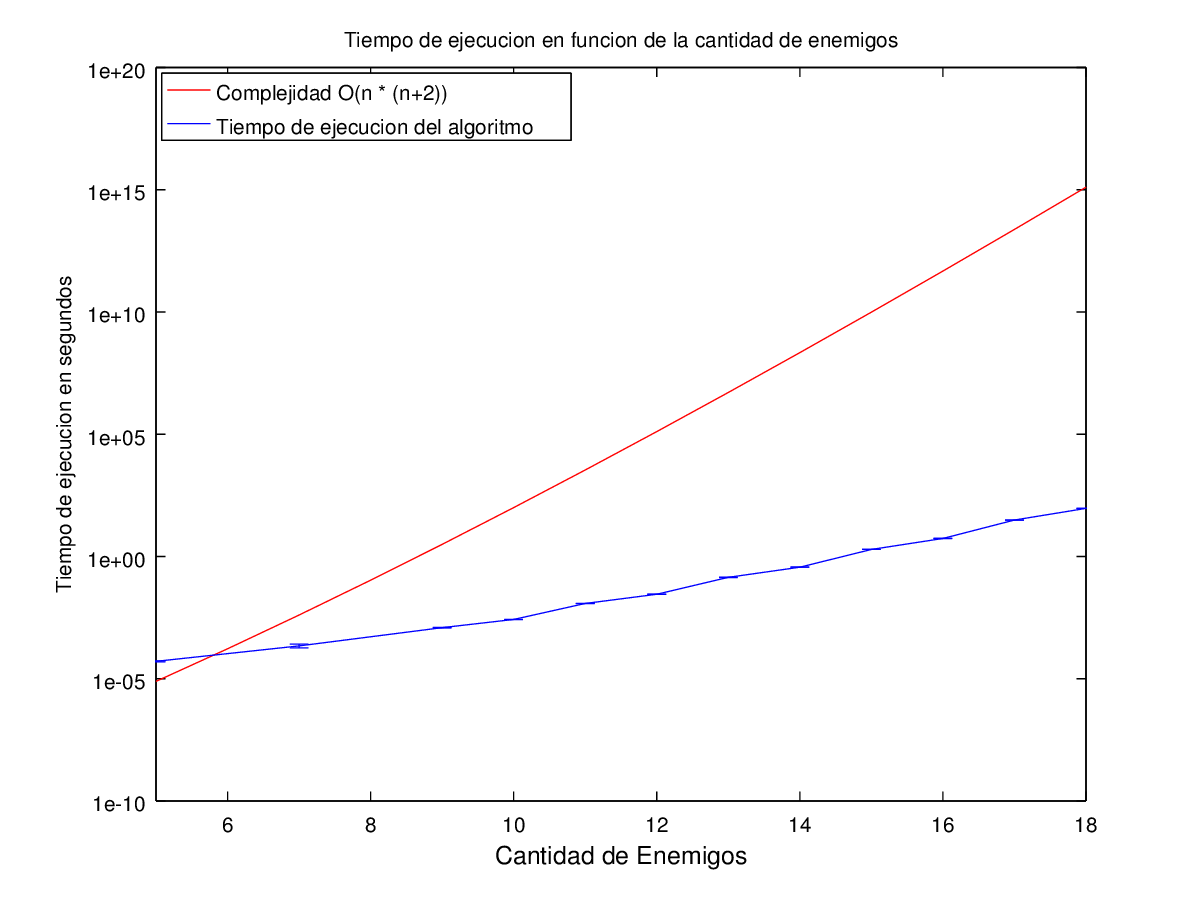
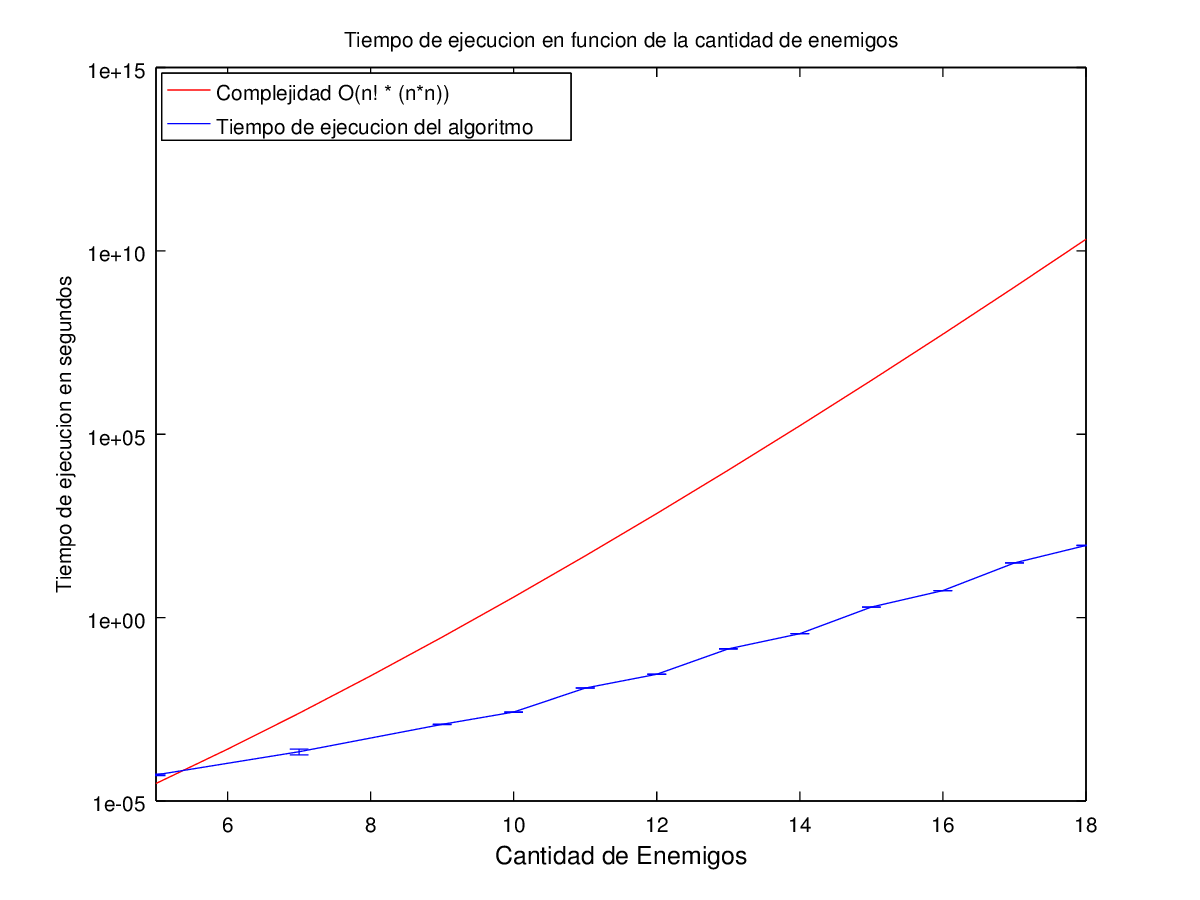
cambio grafico exp1 kamehameha con nueva complejidad

diff --git a/src/exp/kamehameha/exp1/exp1.m b/src/exp/kamehameha/exp1/exp1.m
@@ -14,9 +14,10 @@ primero = enemigos_x(1);
 
 
 eje_x = primero:ultimo;
-aux = eje_x+2;
-pow = power(eje_x,aux);
-eje_y = times(1/10000000000,pow);
+cuadrado = times(eje_x,eje_x);
+fact = factorial(eje_x);
+aux = times(fact,cuadrado);
+eje_y = times(1/100000000,aux);
 
 
 hold on;
@@ -27,7 +28,7 @@ plot(eje_x,eje_y,'r'); %O(n * (n+2))
 h=errorbar(enemigos_x, tiempo_y, e);
 set(get(h, 'Parent'), 'YScale', 'log');
 hold off;
-legend('Complejidad O(n * (n+2))','Tiempo de ejecucion del algoritmo','Location','northwest')
+legend('Complejidad O(n! * (n*n))','Tiempo de ejecucion del algoritmo','Location','northwest')
 xlabel('Cantidad de Enemigos','FontSize',12);
 ylabel('Tiempo de ejecucion en segundos','FontSize',10);
 title('Tiempo de ejecucion en funcion de la cantidad de enemigos');
